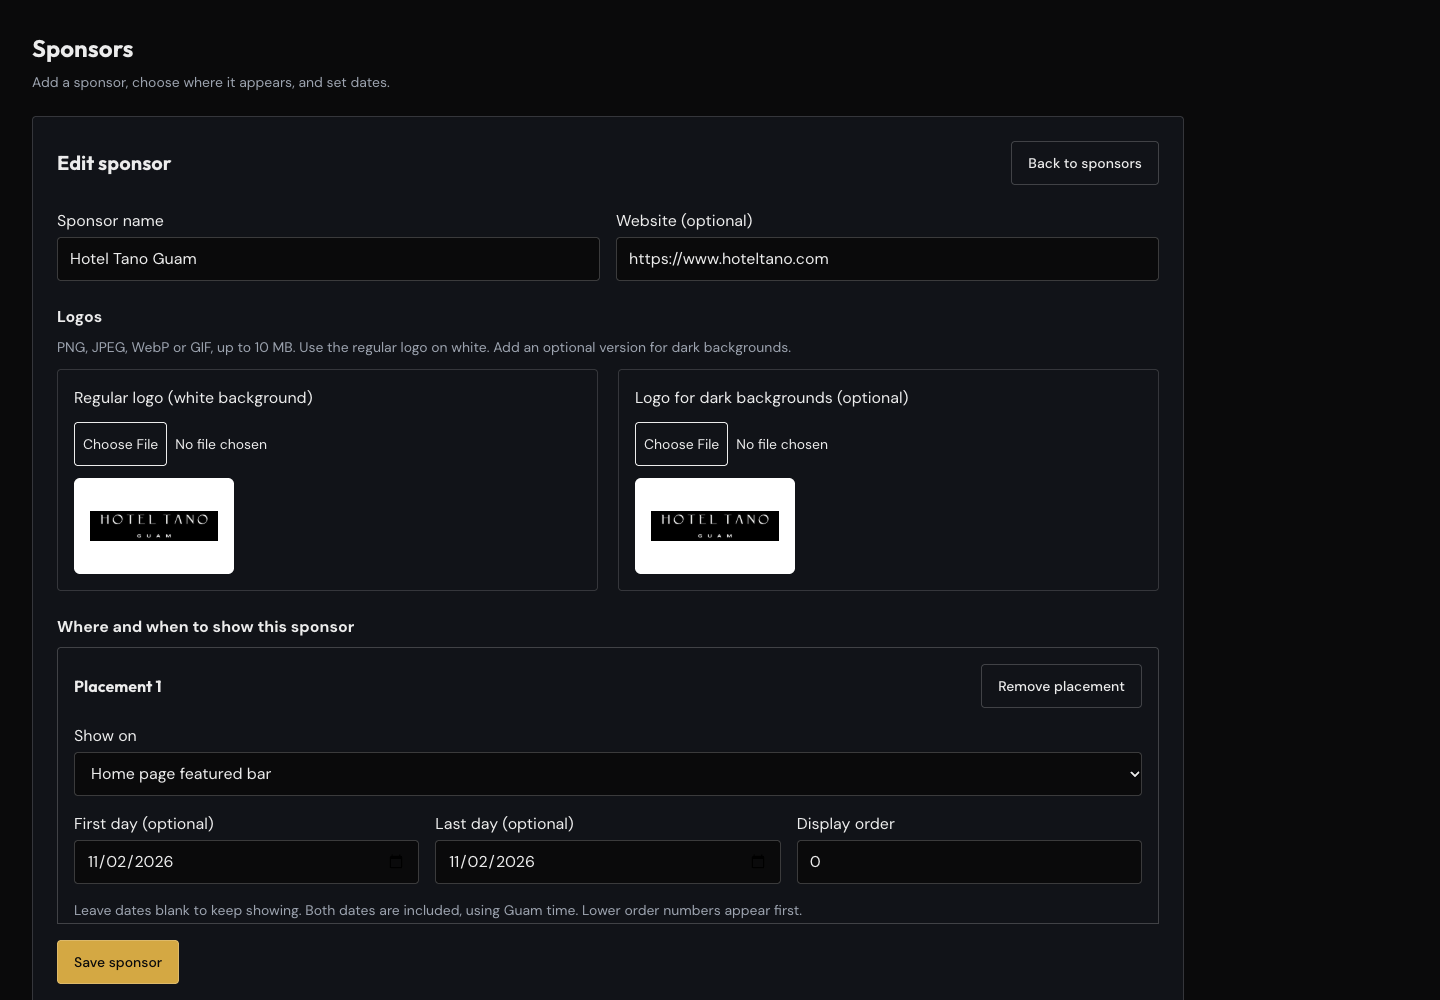
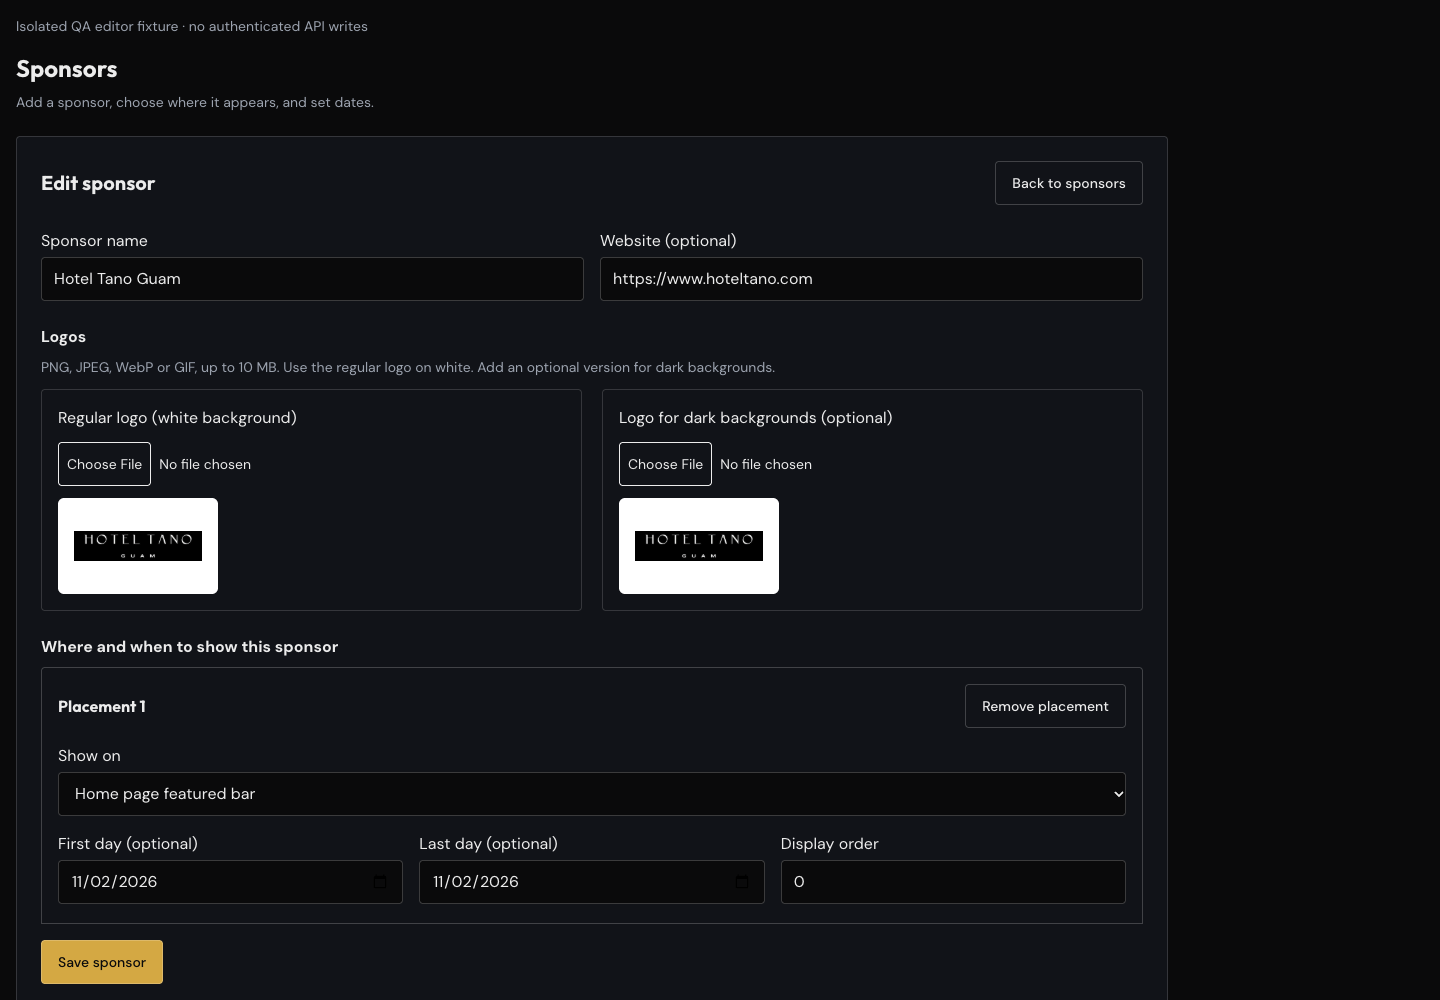
Verify sponsor recovery and scheduling acceptance after review

diff --git a/web/src/utils/sponsorVideo.ts b/web/src/utils/sponsorVideo.ts
@@ -11,7 +11,7 @@ export function sponsorVideo(url: string | null | undefined) {
         ? u.pathname.slice(1)
         : u.pathname.match(/^\/(?:embed|shorts)\/([^/]+)$/)?.[1];
       if (pathId && values.length && values[0] !== pathId) return null;
-      const id = pathId || (u.pathname === "/watch" ? values[0] : undefined);
+      const id = pathId || (["/watch", "/watch/"].includes(u.pathname) ? values[0] : undefined);
       if (!id || !/^[a-zA-Z0-9_-]{11}$/.test(id)) return null;
       return {
         embed: `https://www.youtube-nocookie.com/embed/${id}`,

diff --git a/web/src/utils/sponsorVideo.test.ts b/web/src/utils/sponsorVideo.test.ts
@@ -5,6 +5,7 @@ const id = "dQw4w9WgXcQ";
 it("accepts a sole watch ID and path IDs with absent or matching query v", () => {
   for (const url of [
     `https://youtube.com/watch?v=${id}`,
+    `https://youtube.com/watch/?v=${id}`,
     ...[`https://youtu.be/${id}`, `https://youtube.com/embed/${id}`, `https://youtube.com/shorts/${id}`].flatMap(path => [path, `${path}?v=${id}`]),
   ]) expect(sponsorVideo(url)?.embed).toBe(`https://www.youtube-nocookie.com/embed/${id}`);
 });

diff --git a/docs/qa/d2-sponsors/verify_backfill.rb b/docs/qa/d2-sponsors/verify_backfill.rb
@@ -1,0 +1,40 @@
+# Run with: cd api && DATABASE_URL=postgres:///marianas_open_qa_d2 bin/rails runner ../docs/qa/d2-sponsors/verify_backfill.rb
+abort "Use only the disposable marianas_open_qa_d2 database" unless ActiveRecord::Base.connection_db_config.database == "marianas_open_qa_d2"
+require Rails.root.join("db/migrate/20261102200000_create_sponsor_placements")
+
+proof = nil
+SponsorPlacement.transaction do
+  # Roll back the entire comparison, including removal of any QA-only featured fixture.
+  SponsorPlacement.delete_all
+  records = Sponsor.order(:sort_order).to_a
+  before_attributes = records.map(&:attributes)
+  key_for = ->(sponsor) { sponsor.name.to_s.downcase.gsub(/[^a-z0-9]/, "") }
+  gvb = ->(sponsor) { key = key_for.call(sponsor); key.include?("gvb") || key.include?("guamvisitorsbureau") }
+  before = {
+    presenting: records.select { |s| gvb.call(s) }.map { |s| { name: s.name, url: s.website_url.presence || "https://www.visitguam.com" } },
+    secondary: records.select { |s| s.tier == "presenting" && !gvb.call(s) }.map { |s| { name: s.name, url: s.website_url } },
+    official: records.select { |s| s.tier == "official" && !gvb.call(s) }.map { |s| { name: s.name, url: ["hoteltano", "hoteltanoguam"].include?(key_for.call(s)) ? "https://www.hoteltano.com" : s.website_url } }
+  }
+  2.times { CreateSponsorPlacements.new.backfill_placements }
+  after = before.keys.to_h do |type|
+    [type, SponsorPlacement.where(placement_type: type.to_s).ordered.map { |p| { name: p.sponsor.name, url: p.cta_url.presence || p.sponsor.website_url } }]
+  end
+  raise "Public home output changed" unless before == after
+  raise "Sponsor records changed" unless before_attributes == Sponsor.order(:sort_order).map(&:attributes)
+  event = Event.find_by!(slug: "marianas-open-2026")
+  lineup = SponsorPlacement.joins(:sponsor).where(placement_type: "event", event_id: [nil, event.id], sponsors: { organization_id: event.organization_id }).ordered.map(&:sponsor)
+  raise "2026 event membership changed" unless lineup.map(&:id).sort == records.map(&:id).sort
+  proof = {
+    before: before, after: after, unchanged: true, sponsor_records_unchanged: true,
+    repeated_backfill_count: SponsorPlacement.count, event_2026_membership_unchanged: true,
+    event_2026: { before: records.map(&:name).sort, after: lineup.map(&:name).sort },
+    organization_scope_check: {
+      source: "isolated QA copy of local development; not a production data audit",
+      sponsors: records.length, distinct_sponsor_organizations: records.map(&:organization_id).uniq.length,
+      sponsors_outside_2026_event_organization: records.count { |s| s.organization_id != event.organization_id },
+      null_sponsor_names: records.count { |s| s.name.nil? }
+    }
+  }
+  raise ActiveRecord::Rollback
+end
+puts JSON.pretty_generate(proof)

diff --git a/docs/qa/d2-sponsors/README.md b/docs/qa/d2-sponsors/README.md
@@ -12,7 +12,7 @@ Execution owner: implementation agent. Scope: affected sponsor journeys, rather 
 
 | Case | Expected outcome | Coverage |
 | --- | --- | --- |
-| Backfill compatibility | Same home tier membership/order/URLs, preserved event lineup, Hotel Tano scoped to 2026, repeated backfill creates no duplicates | Migration test and QA copy comparison |
+| Backfill compatibility | Same home tier membership/order/URLs, preserved 2026 event membership, Hotel Tano scoped to 2026, repeated backfill creates no duplicates | Migration test and QA copy comparison |
 | Scheduling | Inclusive first/last day in Guam time; future/expired placements hidden; open-ended windows work | Model and public request tests |
 | Scope and validation | Event placements select only global/current-event entries; cross-organization scopes rejected; safe CTA/video URLs only | Model and request tests |
 | Staff saves | Sponsor and placements save together, audit identifies actor/time, errors permit retry | Request and component tests |
@@ -27,12 +27,12 @@ The development copy included empty legacy PR #79 placement tables. Only the obs
 
 ## Executed results
 
-Final integrated base: `0a8b40b` (main's results sync and official rankings). Browser checks exercised the final sponsor rendering in `a06572ec192a3c1390fbc2070c611fda8a38197d`; the later API test-host setup and evidence commits do not change the UI. The combined schema retains main's results-sync and ranking tables and columns. Rebase conflicts were limited to the schema version and adjacent locale additions; a structured comparison confirms that every main locale key and every sponsor translation was retained unchanged. The rankings integration changes no sponsor UI component or public home/event sponsor path. Full automated gates were restarted after integration; the browser evidence predates that integration.
+Final integrated base: `0a8b40b` (main's results sync and official rankings). Initial browser checks exercised sponsor rendering in `a06572ec192a3c1390fbc2070c611fda8a38197d`. The post-review retest below exercises the later combined source, including recovery and editor changes. The combined schema retains main's results-sync and ranking tables and columns. Rebase conflicts were limited to the schema version and adjacent locale additions; a structured comparison confirms that every main locale key and every sponsor translation was retained unchanged. The rankings integration changes no sponsor UI component or public home/event sponsor path. Full automated gates were restarted after integration. Initial screenshots predate that integration; after screenshots and the post-review browser evidence were refreshed afterward.
 
 - **Passed:** home tiers, preserved Hotel Tano link, featured keyboard activation, no iframe before activation, no autoplay, Escape dismissal, focus restoration, full-opacity 2026 event tiers, and Hotel Tano exclusion from Copa 2027, at both 390 and 1440 CSS pixels. No horizontal overflow was observed. Content remains available with standard and reduced-motion preferences. See [the nine browser cases](browser-results.json).
 - **Passed:** editor fixture layout, labels, logo previews, featured/grid previews, and sticky save placement at both widths. Component tests cover create/save, dates, placement reorder, delete cancellation/confirmation, initial-load recovery, video preview without submission, and failed upload retry without duplicate sponsor/placement creation. Real authenticated browser saves remain **blocked by local Clerk sign-in**; request tests cover persisted writes and audit outcomes separately.
 - **Passed:** [backfill comparison](backfill-comparison.json) shows identical home tier membership, order, and effective URLs; unchanged sponsor records; the same 2026 event membership; and 39 placements after repeated backfill execution. GVB remains presenting, Ready H2GO remains secondary, official sponsors remain official, and the legacy ASJJF partner stays outside the home grid. Hotel Tano retains its official home link and becomes explicitly scoped to the 2026 event. No featured placement is created automatically. Event grouping/labels and logo treatment intentionally improve after deployment.
-- **Passed:** [locale verification](locale-verification.json), with 67 new keys present in all seven locales and interpolation tokens preserved. GT generated translations; native-speaker editorial review was not performed.
+- **Passed:** [locale verification](locale-verification.json), with 69 new keys present in all seven locales and interpolation tokens preserved. The original 67 keys use GT-generated translations; the two later recovery messages are translated in all seven locales. Native-speaker editorial review was not performed.
 
 The featured screenshots use a clearly marked QA-only Hotel Tano placement and an existing local tournament video to demonstrate the optional bar. This fixture was added only to the disposable QA copy and was not included in the migration.
 
@@ -54,15 +54,24 @@ T3 preview screenshot calls twice failed with `Preview automation snapshot timed
 
 Two independent review rounds found and prompted fixes for preview buttons submitting forms, upload retry losing pending files/identities, scoped event deletion, Hotel Tano's legacy home link, and integration of main's schema. A final independent static review found no material findings at `733b5d6`, followed by a clean delta review through `a06572e` covering both-logo eager loading, initial-load retry, and placement reorder tests. A further bounded review verified unchanged-legacy-URL compatibility, HTTPS editor normalization, and preservation of main schema/locale data after rebasing to `0a8b40b`, with no material findings. These are advisory code reviews; runtime acceptance and test execution belong to this implementation agent.
 
-CodeRabbit reported its OSS review limit at the earlier head; a success-labelled skipped check is not a completed review. Its final available status is recorded in the PR handoff. Impeccable 4.6.0 reported three existing gradient-heading findings in HomePage/EventDetailPage, with no new sponsor/editor findings; those existing brand headings were retained.
+CodeRabbit initially reported its OSS review limit, then reviewed `93dcbcc` after the allowance reset. Its 14 inline findings and five follow-ups were triaged; see [review resolutions](REVIEW.md). Material findings were fixed and verified. The only deferred item is a nonblocking admin-list query optimization at the current 20-sponsor scale. Independent review of backend fix `22a6c0e` found no material findings; the frontend slice was reviewed separately on integration, including URL parity. Final rereview availability is recorded in the PR handoff. Impeccable 4.6.0 reported three existing gradient-heading findings in HomePage/EventDetailPage, with no new sponsor/editor findings; those existing brand headings were retained.
 
 ## Engineering gate and cleanup record
 
-The final executed counts, CI state, exact head SHA, and cleanup result are recorded in [PR #122](https://github.com/Shimizu-Technology/marianas-open/pull/122). The gate is:
+The final local gate passes: **352 API tests, 5,392 assertions, zero failures/errors, one skip; 221 web tests in 39 files; Ruby style, Brakeman, bundler-audit, lint, TypeScript, and production build.** CI state, exact head SHA, and cleanup result are recorded in [PR #122](https://github.com/Shimizu-Technology/marianas-open/pull/122). The gate is:
 
 - Dedicated `DATABASE_URL=postgres:///marianas_open_test_d2`, `RAILS_ENV=test`: schema load, full `bin/rails test`, `bin/rubocop`, `bin/brakeman --no-pager --exit-on-warn --exit-on-error`, and `bin/bundler-audit check --update`.
 - Web: `npm ci`, lint, `npx tsc -b`, full `npm test -- --maxWorkers=2`, and `npm run build:no-translate`. Worker count is capped to reduce contention on the shared workstation; all test files run. Production npm audit also uses CI's high/critical threshold.
 
 An earlier full API run before rankings integration had 327 tests/5,221 assertions, zero failures, one ASJJF evidence-lock timeout, and one skip under very high workstation load. The isolated retry passed all 17 tests/114 assertions, including that lock test and all sponsor/query/migration cases. A newly added both-logo URL assertion initially lacked a test URL host; the test now configures and restores its own host. The full gates were then restarted against the combined main and sponsor code. The new legacy website editor assertion waits for the asynchronous loaded form value rather than asserting during initial editor setup.
 
-Task-owned Puma 3381, Vite 5381, headless browsers, and T3 preview were stopped/closed after public QA; temporary harness files and copied logo blobs were removed. The QA database copy was dropped. The remaining test database and exact fallback Chrome tab are cleaned before the final handoff, whose verified status is in the PR. Shared services and other workers' tabs/windows are preserved. The isolated branch/worktree remain available for the merge owner.
+Task-owned Puma 3381, Vite 5381, headless browsers, and T3 preview were stopped/closed after public QA; temporary harness files and copied logo blobs were removed. Both QA phases stop their owned servers and headless browsers. The exact fallback Chrome tab was closed after D1 released native Chrome. Both disposable databases are dropped before the final handoff; the verified status is in the PR. Shared services and other workers' tabs/windows are preserved. The isolated branch/worktree remain available for the merge owner.
+
+
+## Retest after CodeRabbit fixes
+
+The final API source is `22a6c0e`; frontend fixes are `e9b2744` plus the small trailing-slash YouTube parser parity correction in this PR. The combined local gates run against that code. [Twelve public cases](browser-review-results.json) cover both 390/1440 widths with real API reads, selective request failures, Retry recovery, retained last-good data, actual QA scheduling-window changes on an open page, video keyboard behavior, home links/tiers, and event scope. [Eight rendered editor cases](browser-admin-review-results.json) cover both widths, sticky Save/feedback, pending-save field locking, retained failed edits/retry success, missing targets, and event-scope labels. Editor writes are mocked; authenticated admin browser writes remain blocked by Clerk.
+
+The first recovery runner used the wrong button label; after correcting it, the restarted API was found to be missing port 5381 in its local CORS allowlist. The local launch was corrected and preflight verified before the passing final public run. These were runner/environment failures, not accepted product behavior.
+
+Additional evidence: public recovery [390](public-recovery-390.png) / [1440](public-recovery-1440.png), and visible save failure [390](admin-save-error-390.png) / [1440](admin-save-error-1440.png). After screenshots were refreshed against the final sponsor UI. The guarded [backfill verifier](verify_backfill.rb) reproduces the comparison on the named QA copy and rolls back its changes; its output includes the before/after 2026 sponsor names. It intentionally does not claim a per-event comparison of all 29 events.

diff --git a/docs/qa/d2-sponsors/REVIEW.md b/docs/qa/d2-sponsors/REVIEW.md
@@ -1,0 +1,27 @@
+# CodeRabbit review resolution
+
+CodeRabbit first reported an OSS rate limit, then reviewed `93dcbcc` after the allowance reset. The earlier limit is not the final review outcome. Its 14 inline findings and five follow-ups were checked against the current implementation.
+
+| Finding | Disposition and verification |
+| --- | --- |
+| Unknown upload variants replace the regular logo | Fixed: allowlist light/dark, keep the missing-variant light default, return 422 before mutation for unknown values. Request regression preserves the existing logo and audit count. |
+| Draft-event placement metadata is publicly accessible | Fixed: event lookups use `Event.publicly_visible`; draft-event request returns 404. |
+| Duplicate YouTube IDs differ between validation and player | Fixed: reject duplicate `v` values and conflicting path/query IDs. Backend and parser regressions cover ambiguity. |
+| Unchanged legacy websites block unrelated edits | Fixed before the review was read: changed/new URL validation only; editor supplies HTTPS for scheme-less websites. Request/component regressions cover it. |
+| Legacy logo formats block unrelated edits | Fixed: validate only changed attachments; request regression retains a historical SVG through placement edits and verifies a new regular upload. |
+| NULL historical sponsor names abort the migration | Fixed: normalize `name.to_s`; migration regression preserves the null record and creates its placements. The actual QA source has no null names. |
+| Cross-organization sponsors disappear from event pages | Verified data: all 20 QA-source sponsors belong to the 2026 event's organization; zero are outside it. Keep the organization boundary. Evidence is in `backfill-comparison.json`; this is a local-copy compatibility proof, not a production data audit. |
+| Whitespace CTA prevents website fallback | Fixed: normalize CTA and website independently before choosing a destination; component regression covers blank CTA. |
+| Placement load failure hides sponsors without recovery | Fixed: translated error/retry UI, preserved last successful list, stale-response protection. Hook/component tests and real API recovery checks pass at both widths. |
+| Vimeo privacy hash is dropped | Fixed: retain a single valid alphanumeric privacy hash; reject malformed/duplicate values in model and parser tests. |
+| Hotel Tano global fallback duplicates on a later backfill | Fixed: preserve an existing global event row when the historical event is added later; regression retains its ID and staff message. |
+| Open pages do not refresh scheduled placements | Fixed: visible-tab interval and visibility refresh, timer/listener cleanup, and latest-response guard. Real API scheduling-window changes update an open page at both widths. |
+| Missing editor target creates a new sponsor | Fixed: explicit missing-target state and save-identity guard preserve fast upload retry without creating duplicates. Component and rendered fixture checks cover missing targets. |
+| Fields/files remain editable during save | Fixed: disabled fieldset covers every editor control; regression and fixture checks verify name/logo inputs remain locked until completion. Sticky feedback remains visible on the phone. |
+| Reorder writes unchanged sponsors | Fixed: send only placements whose dense order changed; regression verifies unchanged sponsors are skipped. |
+| Event reorder rows are indistinguishable | Fixed: visible row text and both move labels include the event name or translated all-events scope; component regression covers multiple event rows. |
+| Admin index runs per-sponsor placement/audit queries | Deferred, nonblocking: confirmed linear admin-only reads at the current 20-sponsor scale. Public sponsor reads remain bounded and both logo associations are eager-loaded. A batched top-ten-per-sponsor history query can follow when needed; this review provides no observed timeout at realistic counts. |
+| Successful delete is obscured by a failed refresh | Fixed: remove the committed deletion from local state immediately and report success independently of refresh; component regression covers refresh failure. |
+| Event-lineup evidence is too broad | Clarified: compatibility evidence covers home membership/order/effective links and 2026 event membership, plus the explicit Hotel Tano exclusion check on Copa 2027. It does not claim a per-event comparison across all 29 events. |
+
+The combined local gate passes: 352 API tests/5,392 assertions (one skip), 221 web tests, Ruby style, Brakeman, bundler-audit, lint, TypeScript, and production build. The implementation parent owns final browser acceptance and cleanup. Earlier independent reviews do not stand in for verification of these later fixes; the final changed-code review and exact gate results are recorded in PR #122.
